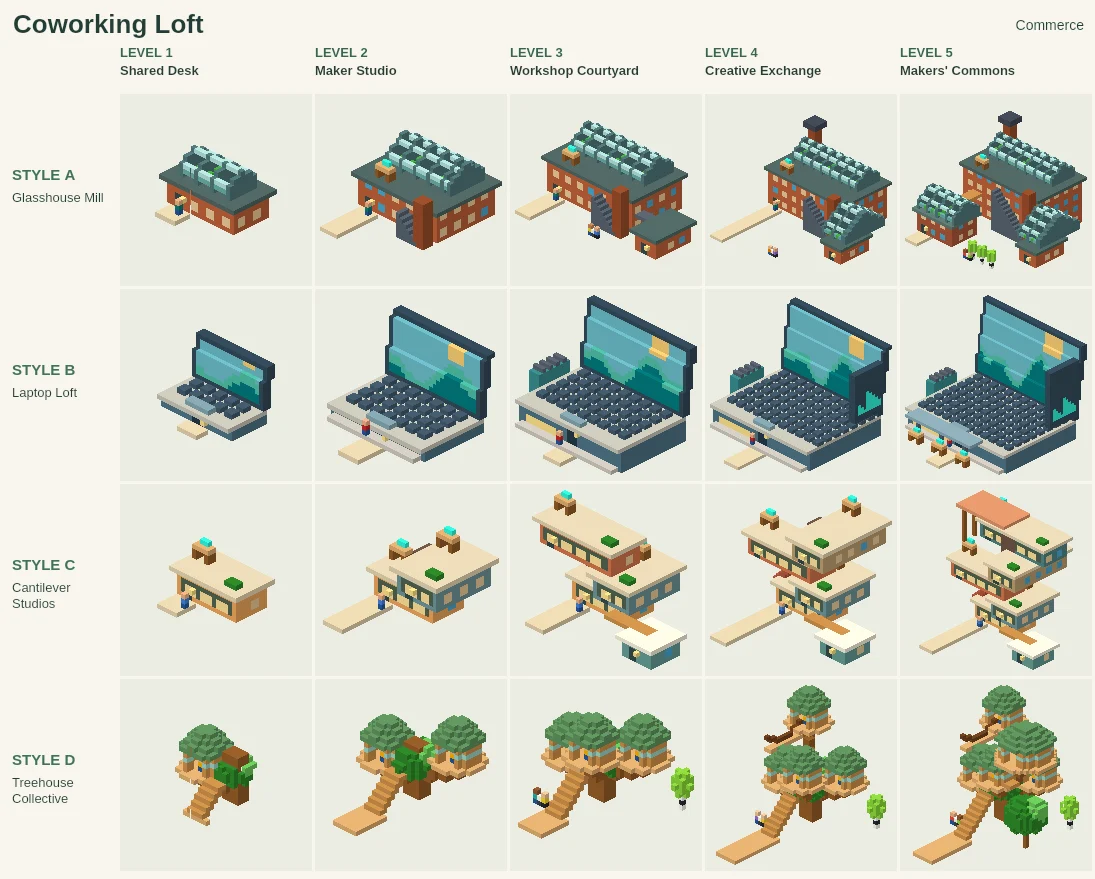
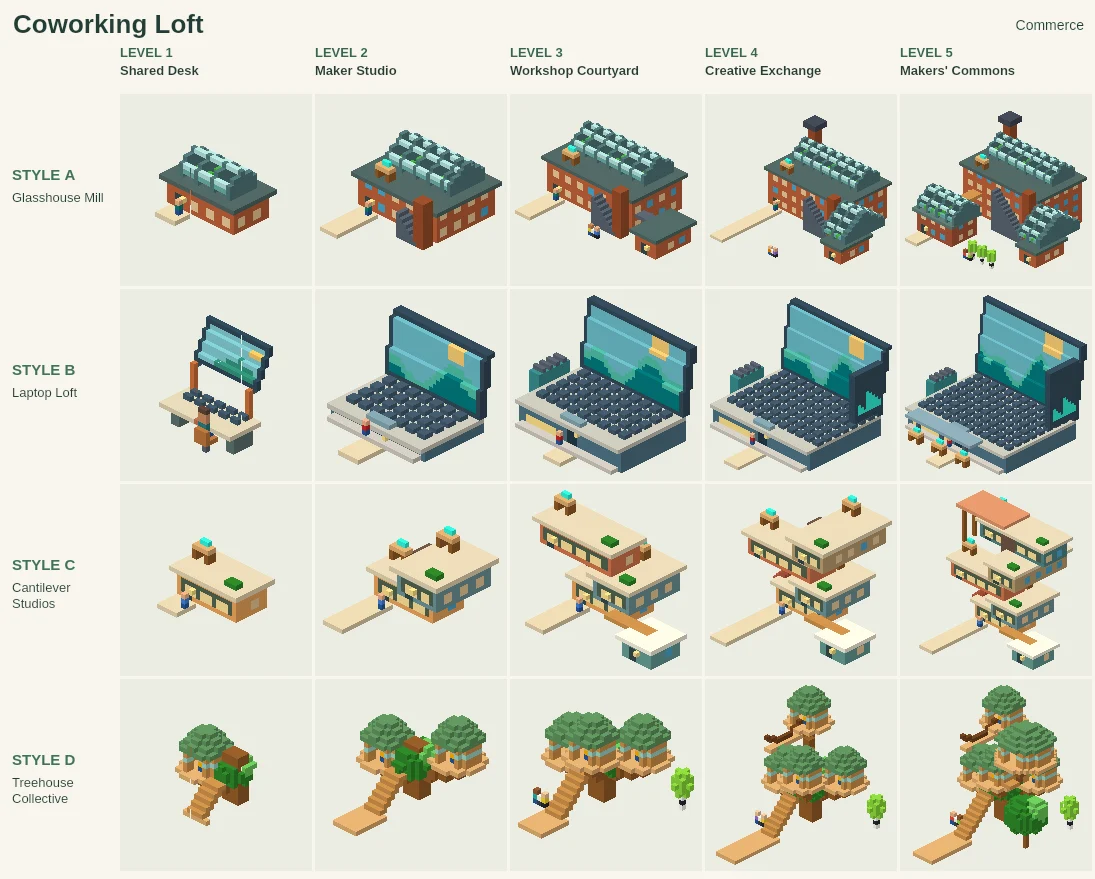
Separate the starter shops at street scale (#43)
* Separate the market, bookshop, apothecary, toolbox and mall entrances

* Open the starter designer desk and lumber cutting shed

* Capture the eight streetfront revisions and refresh handbook art

---------

Changed region(s): [[0.1242, 0.3379, 0.2484, 0.5222]]

diff --git a/src/game/designs/commerceSupply.ts b/src/game/designs/commerceSupply.ts
@@ -249,6 +249,34 @@ function timber(v: PixelVox, x: number, z: number, w: number, rows: number) {
 
 function toolbox(c: Ctx) {
   const { v, lv, hx, hz } = c;
+  if (lv === 1) {
+    // A hinged chest leaves its divided tray exposed to the street. The mallet leans out of its right side.
+    v.hollowBox(-7, 1, -1, 5, 5, 5, "#ae4d40");
+    v.clear(-6, 3, 0, 4, 6, 4);
+    v.box(-6, 2, 0, 4, 3, 4, "woodDark");
+    v.box(-2, 3, 0, -1, 4, 4, "woodLight");
+    v.box(-5, 3, 1, -3, 4, 2, "silver");
+    v.box(0, 3, 0, 1, 4, 3, "brass");
+    v.box(-3, 1, 4, 0, 4, 5, "glassDark");
+    v.box(-3, 0, 5, 0, 1, hz, "path");
+
+    for (let y = 0; y < 8; y++) {
+      const z = -2 - Math.floor(y / 3);
+      v.box(-7, 4 + y, z, 3, 5 + y, z + 2, "#b45444");
+      v.box(-6, 4 + y, z + 1, 2, 5 + y, z + 2, y === 0 || y === 7 ? "copper" : "#774d45");
+    }
+    v.box(-5, 11, -4, -4, 14, -2, "steelDark");
+    v.box(0, 11, -4, 1, 14, -2, "steelDark");
+    v.box(-5, 13, -4, 1, 14, -2, "woodLight");
+
+    for (let y = 0; y < 12; y++) {
+      const x = 1 + Math.floor(y / 4);
+      v.box(x, 3 + y, 1, x + 2, 4 + y, 3, "woodLight");
+    }
+    v.box(1, 15, 0, 7, 18, 4, "steelDark");
+    v.box(6, 15, 0, 8, 18, 4, "silver");
+    return;
+  }
   const w = Math.min(hx - 2, 7 + lv * 2),
     d = Math.min(hz - 2, 4 + lv),
     h = 4 + lv;
@@ -379,6 +407,31 @@ function gambrel(v: PixelVox, x0: number, x1: number, z0: number, z1: number, ba
 
 function lumberBarn(c: Ctx) {
   const { lv, v, hx, hz } = c;
+  if (lv === 1) {
+    // The red timber frame only encloses the rear. Its shed roof reaches out over an open cutting bay.
+    for (const x of [-6, 0]) v.box(x, 1, -6, x + 2, 10, -4, "#995548");
+    for (let y = 2; y < 8; y += 2) v.box(-6, y, -6, 2, y + 1, -5, "#ad6650");
+    for (let z = -7; z < 2; z++) {
+      const roof = 10 - Math.floor((z + 7) / 4);
+      v.box(-7, roof, z, 4, roof + 1, z + 1, z % 3 === 0 ? "#84938b" : "#475e65");
+    }
+    for (let i = 0; i < 4; i++) v.put(-5, 5 + i, -5 + i, "woodDark");
+
+    // Two X-frames carry a single long plank; neighboring uncut stock stands in the bins.
+    for (const x of [-6, 0]) {
+      for (let y = 0; y < 4; y++) {
+        v.put(x, y + 1, 2 + y, "woodDark");
+        v.put(x, y + 1, 5 - y, "wood");
+      }
+    }
+    v.box(-7, 4, 3, 3, 5, 5, "woodLight");
+    v.box(3, 1, -4, 8, 3, 1, "#ad614a");
+    for (let i = 0; i < 3; i++) {
+      v.box(3 + i * 2, 3, -1, 4 + i * 2, 5 + 2 * i, 0, i % 2 ? "wood" : "woodLight");
+    }
+    person(v, 4, 1, 3, "tealDark");
+    return;
+  }
   const x = -hx + 2,
     z = -hz + 2,
     X = byLv(c, [5, 6, 8, 9, 15]),

diff --git a/src/game/designs/shoppingCenters.ts b/src/game/designs/shoppingCenters.ts
@@ -32,6 +32,25 @@ function stall(v: PixelVox, x: number, y: number, z: number, width: number, deep
 
 function glassGalleria(c: Ctx) {
   const { v, hx, hz, lv } = c;
+  if (lv === 1) {
+    // The first shop walk is an open street between two freestanding cast-iron arches.
+    v.box(-7, 0, -10, 7, 1, 11, "#c79877");
+    const archY = (distance: number) => 4 + Math.round(6 * Math.sqrt(Math.max(0, 1 - (distance / 11) ** 2)));
+    for (const z of [-8, 6]) {
+      for (const side of [-1, 1]) {
+        const x = side < 0 ? -12 : 6;
+        stall(v, x, 1, z - 3, 6, 6, "#d6b48b", side < 0 ? shops[1] : shops[2]);
+        v.box(x, 5, z - 3, x + 6, 6, z + 2, glass, .2);
+      }
+      for (let x = -11; x <= 11; x++) {
+        const top = archY(Math.abs(x)), lower = archY(Math.abs(x) + 1);
+        v.box(x, lower, z, x + 1, top + 1, z + 2, iron);
+        v.put(x, top + 1, z, Math.abs(x) < 2 ? brass : glass, Math.abs(x) < 2 ? 0 : .18);
+      }
+    }
+    for (const x of [-10, 10]) v.box(x, 7, -8, x + 1, 8, 8, iron);
+    return;
+  }
   const w = 3 + lv, long = Math.min(hz - 5, 6 + 3 * lv), cz = -Math.floor(hz * .12);
   const sill = 5 + lv, side = Math.min(hx - w - 2, 4 + 2 * lv);
   v.box(-w - side, 0, cz - long, w + side, 1, cz + long + 2, "#c79877");
@@ -201,7 +220,8 @@ function soukSteps(c: Ctx) {
 
 function linerEmporium(c: Ctx) {
   const { v, lv, hx, hz } = c;
-  const w = Math.min(hx - 5, 5 + lv * 2), d = Math.min(hz - 3, 8 + lv * 4);
+  const w = lv === 1 ? 5 : Math.min(hx - 5, 5 + lv * 2);
+  const d = lv === 1 ? hz - 1 : Math.min(hz - 3, 8 + lv * 4);
   const base = 5 + lv, center = -1;
   // A real pointed bow at +z and rounded stern at -z. Wide doors open to the sidewalk under the promenade decks.
   const beamAt = (z: number) => {
@@ -220,6 +240,16 @@ function linerEmporium(c: Ctx) {
         v.put(x, y, center + z, color, color === "#efca87" ? .6 : 0);
       }
       if (y === base || z === -d || z === d - 1) v.box(-beam, y, center + z, beam, y + 1, center + z + 1, y === base ? "#c18d62" : "#314b58");
+    }
+  }
+  if (lv === 1) {
+    // An open promenade follows both gunwales all the way to the street-corner prow.
+    for (let z = -d + 1; z < d; z++) {
+      const beam = beamAt(z);
+      for (const x of [-beam, beam - 1]) {
+        if ((z + d) % 4 === 0) v.put(x, base + 1, center + z, brass);
+        v.put(x, base + 2, center + z, ivory);
+      }
     }
   }
   const sw = Math.max(3, w - 3), superstructure = lv >= 3 ? 2 : 1;

diff --git a/src/game/designs/commerceWorkplaces.ts b/src/game/designs/commerceWorkplaces.ts
@@ -66,6 +66,39 @@ function millLoft(c: Ctx) {
 
 function laptopLoft(c: Ctx) {
   const { v, lv, hx, hz } = c;
+  if (lv === 1) {
+    // The keyboard is a shared desk. Separate hinges leave a band of daylight beneath its tilted screen.
+    for (const x of [-10, 4]) v.box(x, 1, -2, x + 2, 5, 3, "#5f726e");
+    v.box(-11, 5, -3, 7, 6, 5, "#dfd4b9");
+    for (let x = -9; x < 5; x += 3) {
+      for (const z of [-2, 0]) v.box(x, 6, z, x + 2, 7, z + 1, "#445968");
+    }
+    for (const x of [-10, 4]) {
+      v.box(x, 6, -3, x + 1, 12, -2, "copper");
+      v.put(x, 11, -4, "steelDark");
+    }
+    for (let row = 0; row < 8; row++) {
+      const z = -4 - Math.floor(row / 2);
+      v.box(-10, 12 + row, z, 6, 13 + row, z + 1, "#334956");
+      if (row === 0 || row === 7) continue;
+      for (let x = -9; x < 5; x++) {
+        const ridge = 2 + Math.round(1.5 * Math.cos(x / 3));
+        const ink = row === 5 && x > 1 ? "#f6ca79" : row < ridge ? "#45937c" : "#8ccbd0";
+        v.put(x, 12 + row, z, ink, 0.25);
+      }
+    }
+
+    // A seated original designer leans over the keys from a swivel chair at street level.
+    v.box(1, 1, 5, 2, 4, 6, "steelDark");
+    v.box(0, 3, 4, 3, 4, 7, "#b5774b");
+    v.box(0, 4, 6, 3, 6, 7, "#b5774b");
+    v.box(0, 4, 4, 2, 5, 6, "blueDark");
+    v.box(0, 5, 5, 2, 7, 6, "#387a81");
+    v.box(0, 7, 5, 2, 9, 6, "#c68e69");
+    v.box(0, 9, 5, 2, 10, 6, "#5b463c");
+    v.box(-1, 6, 3, 0, 7, 6, "#bb7359");
+    return;
+  }
   const w = byLv(c, [9, 12, 15, 17, 19]),
     depth = byLv(c, [5, 8, 10, 13, 14]);
   const base = lv < 3 ? 3 : 6,

diff --git a/src/game/designs/groceryMarket.ts b/src/game/designs/groceryMarket.ts
@@ -249,19 +249,24 @@ function barnWing(v: PixelVox, x0: number, x1: number, z0: number, z1: number, h
 function farmersBarn(c: Ctx) {
   const { v, lv, hx, hz } = c;
   if (lv === 1) {
-    for (const x of [-5, 4]) for (const z of [-3, 3]) v.box(x, 1, z, x + 1, 6, z + 1, timber);
-    for (let x = -6; x < 6; x++)
-      v.box(
-        x,
-        7 - Math.floor(Math.abs(x + 0.5) / 3),
-        -4,
-        x + 1,
-        8 - Math.floor(Math.abs(x + 0.5) / 3),
-        5,
-        x % 4 < 2 ? ivory : green,
-      );
-    produceBin(v, -4, 1, 3, colors[0]);
-    produceBin(v, 1, 1, 3, colors[1]);
+    // The first grower sells from a hay wagon. Two canvas bows shade its rear half.
+    v.box(-6, 3, -3, 6, 4, 2, timber);
+    for (const x of [-4, 3]) for (const z of [-4, 2]) wheel(v, x, 2, z, 2);
+    for (const x of [-5, -1]) {
+      for (let z = -3; z <= 2; z++) {
+        const arch = 8 - Math.floor(Math.abs(z + 0.5) * 0.9);
+        v.put(x, arch, z, ivory);
+        if (z === -3 || z === 2) v.box(x, 4, z, x + 1, arch, z + 1, green);
+      }
+    }
+    for (let x = -5; x <= -1; x++) for (let z = -3; z <= 2; z++)
+      v.put(x, 8 - Math.floor(Math.abs(z + 0.5) * 0.9), z, (x + 5) % 3 ? green : ivory);
+    produceBin(v, -5, 4, -1, colors[0]);
+    produceBin(v, 1, 4, -1, colors[1]);
+    v.box(5, 3, -1, 8, 4, 0, oak);
+    v.box(-5, 4, 3, -4, 9, 4, timber);
+    v.put(-5, 8, 4, "#ffd28c", 0.7);
+    v.box(-5, 9, 3, -1, 10, 4, "#bd6d42");
     return;
   }
   const x0 = lv === 2 ? -13 : -hx + 3,

diff --git a/src/game/designs/cornerPharmacy.ts b/src/game/designs/cornerPharmacy.ts
@@ -110,9 +110,9 @@ function pestle(v: PixelVox, x: number, y: number, z: number, h: number, side: n
 }
 function mortarShop(c: Ctx) {
   const { v, lv } = c;
-  const x = lv < 3 ? 0 : -4,
+  const x = lv === 1 ? 0 : lv === 2 ? -2 : -4,
     z = lv < 4 ? -1 : -3,
-    r = byLv(c, [4, 6, 6, 10, 9]),
+    r = byLv(c, [4, 5, 6, 10, 9]),
     h = byLv(c, [4, 6, 6, 9, 10]);
   const stand = lv === 1 ? 1 : 4;
   if (lv > 1) {
@@ -120,8 +120,17 @@ function mortarShop(c: Ctx) {
     v.box(x - 3, 2, z + 2, x + 3, 5, z + 4, mint);
   }
   mortar(v, x, stand, z, r, h);
-  pestle(v, x, stand + h - 2, z, byLv(c, [5, 8, 9, 13, 16]), lv > 3 ? -1 : 1);
+  pestle(v, x, stand + h - 2, z, byLv(c, [5, 11, 9, 13, 16]), lv === 2 || lv > 3 ? -1 : 1);
   counter(v, x, 1, z + r - 1);
+  if (lv === 2) {
+    // A tall ingredient dresser shares the little dispensary with the lowered mixing bowl.
+    for (const zPost of [-5, -1]) v.box(6, 1, zPost, 7, 14, zPost + 1, pine);
+    for (const y of [2, 7, 12]) {
+      v.box(3, y, -5, 7, y + 1, 0, mint);
+      jar(v, 4, y + 1, -4, y === 7 ? "#b47946" : "#72936a");
+    }
+    person(v, 2, 1, 4, ivory);
+  }
   if (lv >= 3) {
     const rx = 8,
       rz = lv === 3 ? -1 : 2;

diff --git a/src/game/designs/indieBookstore.ts b/src/game/designs/indieBookstore.ts
@@ -67,10 +67,18 @@ function crookedBay(
 function crookedShop(c: Ctx) {
   const { v, lv } = c;
   if (lv === 1) {
-    bookCart(v, -1, 2);
-    for (const x of [-5, 4]) v.box(x, 1, -3, x + 1, 8, -2, timber);
-    gable(v, -6, 7, -5, 6, 3, "x", "#597965");
-    counter(v, 3, 1, -1);
+    // A bookseller wheels out a freestanding, fold-out rack. Its upper shelves lean back.
+    for (let tier = 0; tier < 3; tier++) {
+      const y = 2 + tier * 4, z = 1 - tier * 2, end = 1 - tier;
+      v.box(-6, y, z - 2, end + 1, y + 1, z + 1, shelf);
+      bookRow(v, -5, y + 1, z - 1, end + 4, tier);
+      v.box(-6, y - 1, z - 2, -5, y + 4, z, green);
+      v.box(end, y - 1, z - 2, end + 1, y + 4, z, green);
+    }
+    v.box(-6, 1, -6, -5, 12, -5, timber);
+    bookCart(v, 3, 3);
+    counter(v, 3, 1, -2);
+    person(v, 3, 1, -4, "#964e58");
     return;
   }
   const x = lv === 2 ? 0 : -6,

diff --git a/docs/redesign/PROGRESS.md b/docs/redesign/PROGRESS.md
@@ -60,3 +60,4 @@
 - 2026-11-27 14:10 MT — [PR #39](https://github.com/FuzzyMediaco/Pixel-Civilization/pull/39) merged at `2eed648`. Bookstore, pharmacy, seafood pier, motor and furniture showrooms gained 100 Original models. No silhouette flags across the batch and Public Library. [Before/after boards](../review/neighborhood-commerce/). Local lint, tests, build and [Game checks](https://github.com/FuzzyMediaco/Pixel-Civilization/actions/runs/46068409046) passed.
 - 2026-11-27 14:13 MT — [PR #40](https://github.com/FuzzyMediaco/Pixel-Civilization/pull/40) merged at `bc6a599`. Five commercial workplaces and markets gained 100 distinct Original models. The five-element comparison flagged no lookalikes, close variants or flat upgrades. [Before/after boards](../review/workplace-markets/). Local lint, tests, build and [Game checks](https://github.com/FuzzyMediaco/Pixel-Civilization/actions/runs/46068788941) passed.
 - 2026-11-27 14:19 MT — [PR #41](https://github.com/FuzzyMediaco/Pixel-Civilization/pull/41) merged at `0e56b8c`. Five Original high-street elements gained 100 models. After a lighting test flagged the first thatched bar, a new lantern and lighted storefront details were verified in the game’s day and night renders. [Before/after boards](../review/original-high-street/). Local lint, tests, build and [Game checks](https://github.com/FuzzyMediaco/Pixel-Civilization/actions/runs/46069450501) passed.
+- 2026-11-27 14:22 MT — [PR #42](https://github.com/FuzzyMediaco/Pixel-Civilization/pull/42) merged at `7033c7c`. The final seven Original commercial families received 140 models. All 36 commercial IDs now have their commissioned artwork or retained benchmark. A category-wide comparison identified a few more starter and cross-slot neighbors to refine before the government PRs. [Before/after boards](../review/commerce-streetfronts/). Local lint, tests, build and [Game checks](https://github.com/FuzzyMediaco/Pixel-Civilization/actions/runs/46069758940) passed.
